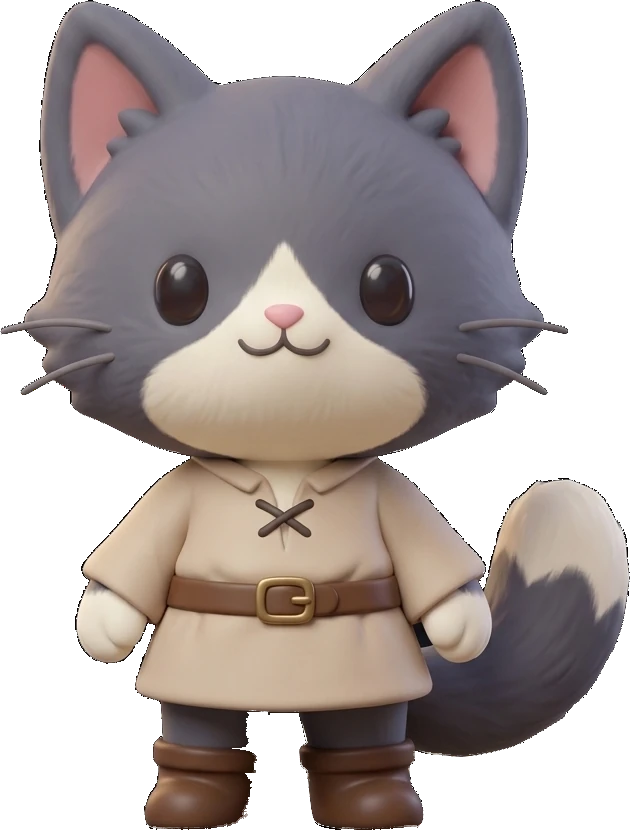
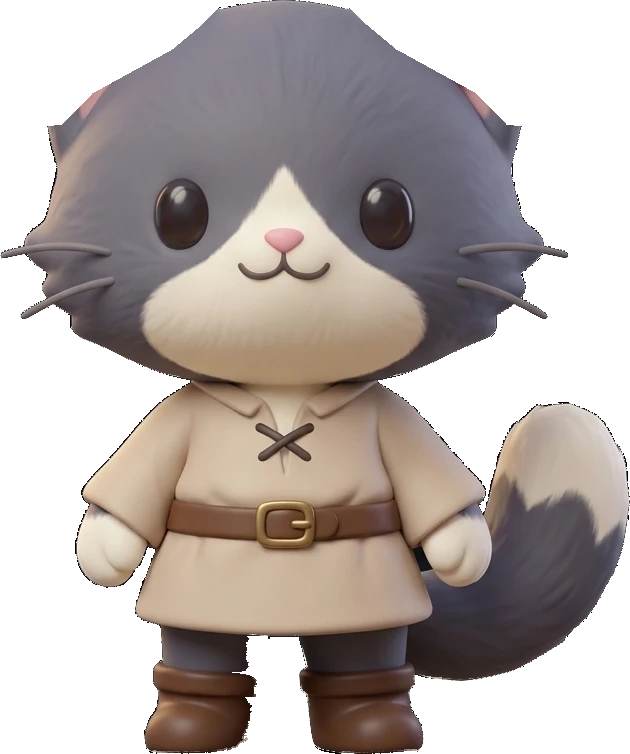
questling: the witch hat sits on the head over the ears; cat and fox ears are their own layer, hidden under it

diff --git a/questling/tests/equipment.test.ts b/questling/tests/equipment.test.ts
@@ -27,13 +27,15 @@ describe("the layered figure", () => {
       "star-amulet-front",
       "witch-hat-front",
     ]);
-    // Every combination draws two layers per item plus the body, and nothing it does not wear.
+    // Every combination draws two layers per item plus the body, and the cat's ears unless the hat
+    // (worn over them) is on; nothing it does not wear.
     const keys = Object.keys(slice) as (keyof typeof slice)[];
     for (let mask = 0; mask < 8; mask++) {
       const worn = Object.fromEntries(keys.filter((_, i) => mask & (1 << i)).map((k) => [k, slice[k]]));
       const figure = figureOf("cat", worn);
       expect(figure.kind).toBe("layered");
-      expect(names(figure)).toHaveLength(1 + 2 * Object.keys(worn).length);
+      expect(names(figure)).toHaveLength(1 + 2 * Object.keys(worn).length + ("headwear" in worn ? 0 : 1));
+      expect(names(figure).includes("cat-ears")).toBe(!("headwear" in worn));
       if (figure.kind === "layered") expect(figure.pending).toEqual([]);
     }
   });
@@ -70,7 +72,7 @@ describe("the layered figure", () => {
 
   it("draws the garments re-cut for the chibi body behind and in front of it", () => {
     const robe = figureOf("cat", { outfit: "violet-robe" });
-    expect(names(robe)).toEqual(["violet-robe-back", "cat-base", "violet-robe-front"]);
+    expect(names(robe)).toEqual(["violet-robe-back", "cat-base", "cat-ears", "violet-robe-front"]);
     expect(robe.pending).toEqual([]);
   });
 

diff --git a/questling/lib/content/figure.ts b/questling/lib/content/figure.ts
@@ -10,6 +10,8 @@ import rig from "./rig.json";
 // screen can say so instead of pretending. A species without a rig shows its plain base picture.
 
 type LayerName = keyof typeof layers;
+/** Hats worn over the ears: a species' tall ears (its "-ears" layer) are not drawn under them. */
+const HIDES_EARS = new Set(["witch-hat"]);
 type Fit = { x: number; y: number; scale: number };
 
 /**
@@ -72,6 +74,12 @@ export function figureOf(species: CharacterId, equipped: Partial<Record<Slot, st
   };
   for (const step of ORDER.filter((s) => s.part === "back")) add(step.part, step.slot);
   stack.push(place(baseLayer, fits.base));
+  const earsLayer = `${species}-ears` as LayerName;
+  const hatOverEars = Object.values(equipped).some((id) => {
+    const art = id ? itemById.get(id)?.art : undefined;
+    return !!art && HIDES_EARS.has(art) && !!fits[art];
+  });
+  if (earsLayer in layers && !hatOverEars) stack.push(place(earsLayer, fits.base));
   for (const step of ORDER.filter((s) => s.part === "front")) add(step.part, step.slot);
 
   const drawn = worn.filter((id) => {

diff --git a/questling/e2e/gate4-equipment.spec.ts b/questling/e2e/gate4-equipment.spec.ts
@@ -40,7 +40,9 @@ test("taking the tunic off removes both its layers and nothing else", async ({ p
   await expect.poll(() => sources(page)).toEqual(before.filter((src) => !src.includes("violet-tunic")));
 });
 
-test("taking the hat off removes both its layers, and the saved look is the one the profile shows", async ({ page }) => {
+test("taking the hat off removes both its layers and shows the ears again, and the saved look is the one the profile shows", async ({
+  page,
+}) => {
   await page.goto("/ru/demo/wardrobe");
   await ready(page);
   await page.locator('[data-item="wizard-hat"]').getByRole("button", { name: /Снять/ }).click();
@@ -48,6 +50,7 @@ test("taking the hat off removes both its layers, and the saved look is the one 
     "/images/layers/ceremonial-cape-back.webp",
     "/images/layers/violet-tunic-back.webp",
     "/images/layers/cat-base.webp",
+    "/images/layers/cat-ears.webp",
     "/images/layers/violet-tunic-front.webp",
     "/images/layers/ceremonial-cape-front.webp",
     "/images/layers/crystal-staff-front.webp",

diff --git a/questling/docs/ASSET_AUDIT.md b/questling/docs/ASSET_AUDIT.md
@@ -177,6 +177,13 @@ that every item but the ones below is drawn on every hero, and that no layer lea
 
 Known residual: a 1–2 px dark rim can show on light backgrounds; the app's backgrounds are dark.
 
+### Hat over the ears
+
+The witch hat sits on the head (owner, 2026-10-25: it must cover the ears, not float above them). The cat's
+and the fox's tall ears are cut from their bases along the head's dome into their own layer
+(`<hero>-ears`, `EARS` in `build-layers.mjs`), drawn right after the body unless a hat worn over the ears
+is on (`HIDES_EARS`, also in `lib/content/figure.ts`); the cut lies wholly under the hat.
+
 ### Blender
 
 The five items that could not be fitted were made in Blender on 2026-10-25 (`blender/`, in git):
